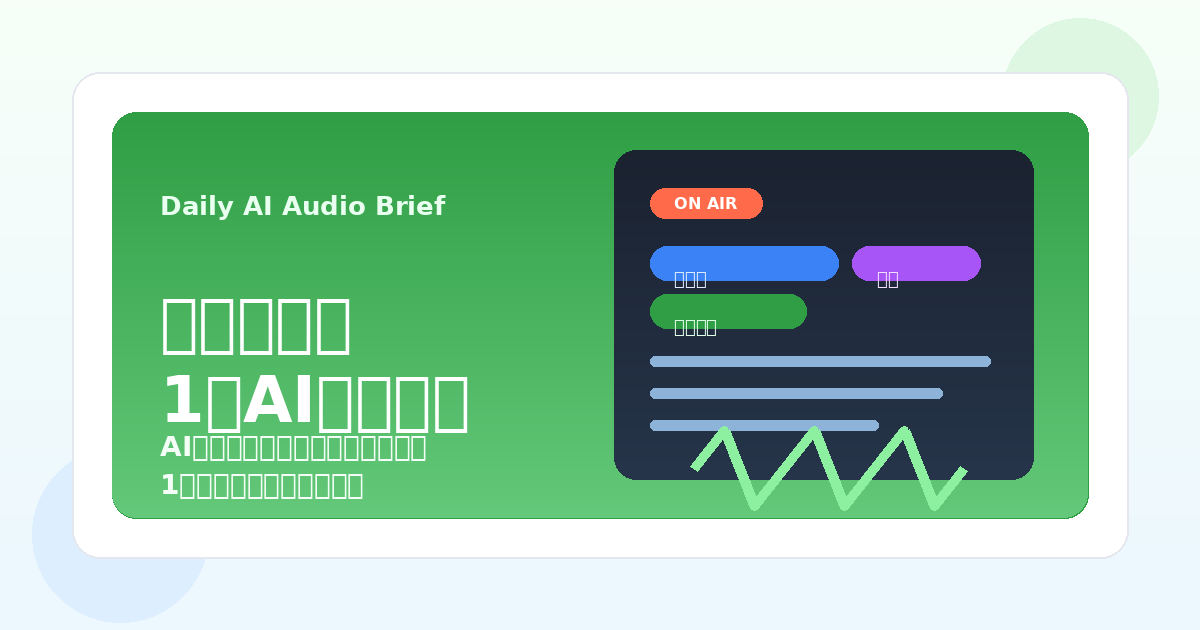
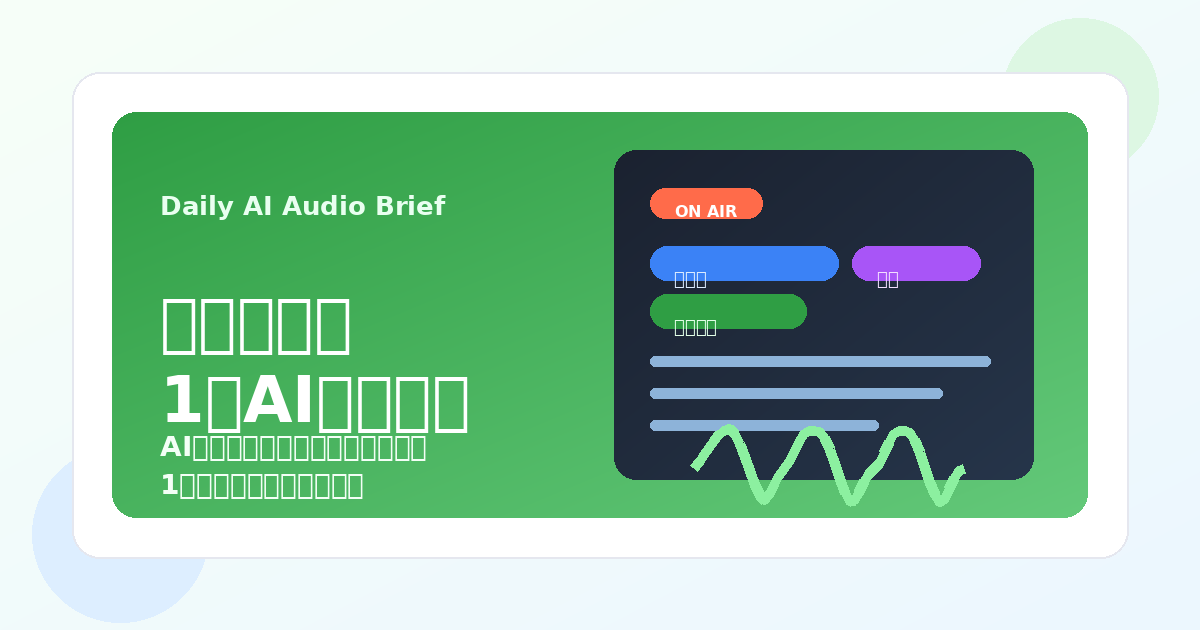
Refine OGP PNG rendering

diff --git a/scripts/render_ogp.py b/scripts/render_ogp.py
@@ -34,14 +34,29 @@ def load_font(size: int, bold: bool = False):
 
 
 
-def vertical_gradient(size: tuple[int, int], top: tuple[int, int, int], bottom: tuple[int, int, int]) -> Image.Image:
+def lerp_color(a: tuple[int, int, int], b: tuple[int, int, int], t: float) -> tuple[int, int, int]:
+    return tuple(int(a[i] * (1 - t) + b[i] * t) for i in range(3))
+
+
+
+def linear_gradient(size: tuple[int, int], start: tuple[int, int, int], end: tuple[int, int, int], start_xy: tuple[float, float], end_xy: tuple[float, float]) -> Image.Image:
     width, height = size
-    image = Image.new('RGB', size, top)
+    image = Image.new('RGB', size, start)
     draw = ImageDraw.Draw(image)
+
+    sx, sy = start_xy
+    ex, ey = end_xy
+    dx = ex - sx
+    dy = ey - sy
+    denom = dx * dx + dy * dy or 1.0
+
     for y in range(height):
-        ratio = y / max(1, height - 1)
-        color = tuple(int(top[i] * (1 - ratio) + bottom[i] * ratio) for i in range(3))
-        draw.line((0, y, width, y), fill=color)
+        for x in range(width):
+            px = x / max(1, width - 1)
+            py = y / max(1, height - 1)
+            t = ((px - sx) * dx + (py - sy) * dy) / denom
+            t = 0.0 if t < 0.0 else 1.0 if t > 1.0 else t
+            draw.point((x, y), fill=lerp_color(start, end, t))
     return image
 
 
@@ -51,22 +66,52 @@ def rounded_box(draw: ImageDraw.ImageDraw, box, radius: int, fill, outline=None,
 
 
 
+def text_size(draw: ImageDraw.ImageDraw, text: str, font: ImageFont.FreeTypeFont) -> tuple[int, int]:
+    left, top, right, bottom = draw.textbbox((0, 0), text, font=font)
+    return right - left, bottom - top
+
+
+
+def draw_text_centered(draw: ImageDraw.ImageDraw, center: tuple[int, int], text: str, font, fill):
+    w, h = text_size(draw, text, font)
+    x = center[0] - w / 2
+    y = center[1] - h / 2
+    draw.text((x, y), text, font=font, fill=fill)
+
+
+
+def draw_wave(draw: ImageDraw.ImageDraw):
+    points = [
+        (694, 468),
+        (699, 462), (704, 454), (709, 447), (714, 440), (719, 434), (724, 430),
+        (729, 428), (734, 433), (739, 443), (744, 456), (749, 470), (754, 484),
+        (759, 495), (764, 500), (769, 494), (774, 484), (779, 475), (784, 468),
+        (789, 461), (794, 451), (799, 441), (804, 433), (809, 430), (814, 430),
+        (819, 431), (824, 438), (829, 449), (834, 463), (839, 478), (844, 492),
+        (849, 501), (854, 500), (859, 492), (864, 481), (869, 473), (874, 468),
+        (879, 463), (884, 453), (889, 442), (894, 433), (899, 430), (904, 430),
+        (909, 432), (914, 440), (919, 452), (924, 467), (929, 482), (934, 494),
+        (939, 502), (944, 499), (949, 489), (954, 478), (959, 470), (964, 468),
+    ]
+    draw.line(points, fill=(140, 240, 160, 255), width=10, joint='curve')
+
+
+
 def main() -> None:
-    image = vertical_gradient((WIDTH, HEIGHT), (247, 255, 248), (236, 247, 255)).convert('RGBA')
+    image = linear_gradient((WIDTH, HEIGHT), (247, 255, 248), (236, 247, 255), (0.0, 0.0), (1.0, 1.0)).convert('RGBA')
     draw = ImageDraw.Draw(image, 'RGBA')
 
     draw.ellipse((1002, 18, 1158, 174), fill=(221, 247, 227, 255))
     draw.ellipse((32, 446, 208, 622), fill=(221, 238, 255, 255))
 
     rounded_box(draw, (72, 72, 1128, 558), 28, fill=(255, 255, 255, 255), outline=(229, 231, 239, 255), width=2)
-    rounded_box(draw, (112, 112, 1088, 518), 24, fill=(47, 158, 68, 255))
 
-    accent_overlay = vertical_gradient((976, 406), (47, 158, 68), (100, 201, 122)).convert('RGBA')
+    accent_overlay = linear_gradient((976, 406), (47, 158, 68), (100, 201, 122), (0.0, 0.0), (1.0, 1.0)).convert('RGBA')
     mask = Image.new('L', (976, 406), 0)
     ImageDraw.Draw(mask).rounded_rectangle((0, 0, 975, 405), radius=24, fill=255)
     image.paste(accent_overlay, (112, 112), mask)
 
-    screen = vertical_gradient((420, 330), (27, 34, 48), (38, 53, 74)).convert('RGBA')
+    screen = linear_gradient((420, 330), (27, 34, 48), (38, 53, 74), (0.0, 0.0), (1.0, 1.0)).convert('RGBA')
     screen_mask = Image.new('L', (420, 330), 0)
     ImageDraw.Draw(screen_mask).rounded_rectangle((0, 0, 419, 329), radius=22, fill=255)
     image.paste(screen, (614, 150), screen_mask)
@@ -75,7 +120,7 @@ def main() -> None:
     rounded_box(draw, (650, 188, 762, 218), 15, fill=(255, 107, 74, 255))
     rounded_box(draw, (650, 246, 838, 280), 17, fill=(59, 130, 246, 46))
     rounded_box(draw, (852, 246, 980, 280), 17, fill=(168, 85, 247, 46))
-    rounded_box(draw, (650, 294, 806, 328), 17, fill=(47, 158, 68, 52))
+    rounded_box(draw, (650, 294, 806, 328), 17, fill=(47, 158, 68, 51))
     rounded_box(draw, (650, 356, 990, 366), 5, fill=(141, 179, 217, 76))
     rounded_box(draw, (650, 388, 942, 398), 5, fill=(141, 179, 217, 61))
     rounded_box(draw, (650, 420, 878, 430), 5, fill=(141, 179, 217, 46))
@@ -86,18 +131,17 @@ def main() -> None:
     font_sub = load_font(28, bold=True)
     font_chip = load_font(18, bold=True)
 
-    draw.text((706, 203), 'ON AIR', anchor='mm', font=font_small_bold, fill=(255, 255, 255, 255))
-    draw.text((160, 190), 'Daily AI Audio Brief', font=font_label, fill=(233, 255, 240, 255))
-    draw.text((160, 284), 'ずんだもん', font=font_title, fill=(255, 255, 255, 255))
-    draw.text((160, 362), '1分AIニュース', font=font_title, fill=(255, 255, 255, 255))
-    draw.text((160, 430), 'AIニュースを、ずんだもんの声で', font=font_sub, fill=(243, 255, 246, 255))
-    draw.text((160, 468), '1分前後にまとめてお届け', font=font_sub, fill=(243, 255, 246, 255))
-    draw.text((674, 268), '透明性', font=font_chip, fill=(220, 235, 255, 255))
-    draw.text((877, 268), '研究', font=font_chip, fill=(242, 222, 255, 255))
-    draw.text((674, 316), 'インフラ', font=font_chip, fill=(226, 255, 231, 255))
+    draw_text_centered(draw, (706, 208), 'ON AIR', font_small_bold, (255, 255, 255, 255))
+    draw.text((160, 190), 'Daily AI Audio Brief', font=font_label, fill=(233, 255, 240, 255), anchor='la')
+    draw.text((160, 284), 'ずんだもん', font=font_title, fill=(255, 255, 255, 255), anchor='la')
+    draw.text((160, 362), '1分AIニュース', font=font_title, fill=(255, 255, 255, 255), anchor='la')
+    draw.text((160, 430), 'AIニュースを、ずんだもんの声で', font=font_sub, fill=(243, 255, 246, 255), anchor='la')
+    draw.text((160, 468), '1分前後にまとめてお届け', font=font_sub, fill=(243, 255, 246, 255), anchor='la')
+    draw.text((674, 268), '透明性', font=font_chip, fill=(220, 235, 255, 255), anchor='la')
+    draw.text((877, 268), '研究', font=font_chip, fill=(242, 222, 255, 255), anchor='la')
+    draw.text((674, 316), 'インフラ', font=font_chip, fill=(226, 255, 231, 255), anchor='la')
 
-    wave_points = [(694, 468), (724, 430), (754, 506), (784, 468), (814, 430), (844, 506), (874, 468), (904, 430), (934, 506), (964, 468)]
-    draw.line(wave_points, fill=(140, 240, 160, 255), width=10, joint='curve')
+    draw_wave(draw)
 
     OUT.parent.mkdir(parents=True, exist_ok=True)
     image.convert('RGB').save(OUT, format='PNG', optimize=True)
